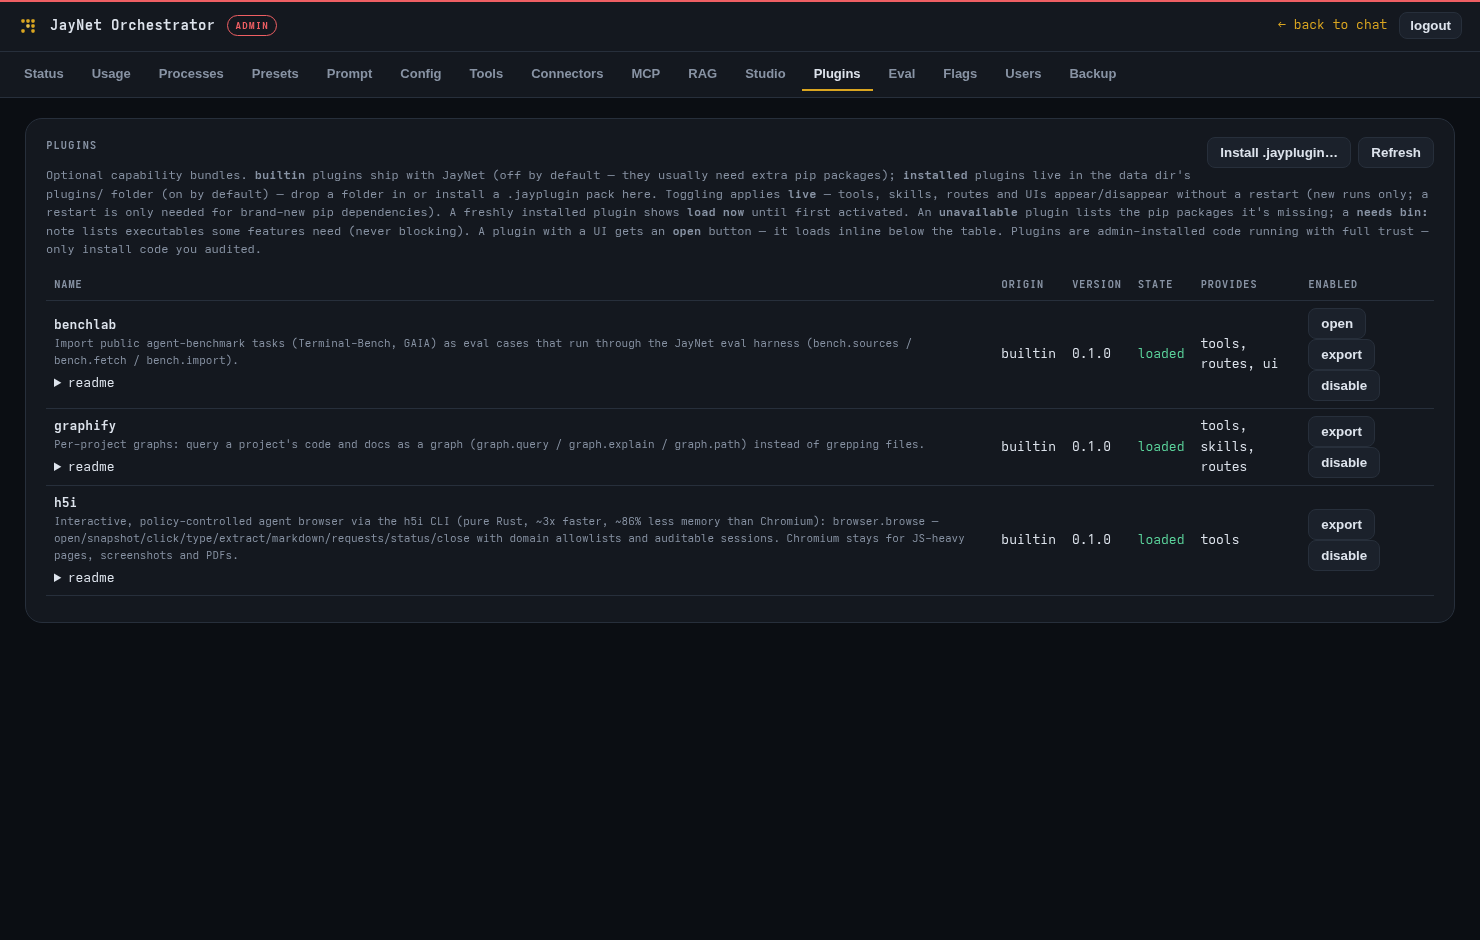
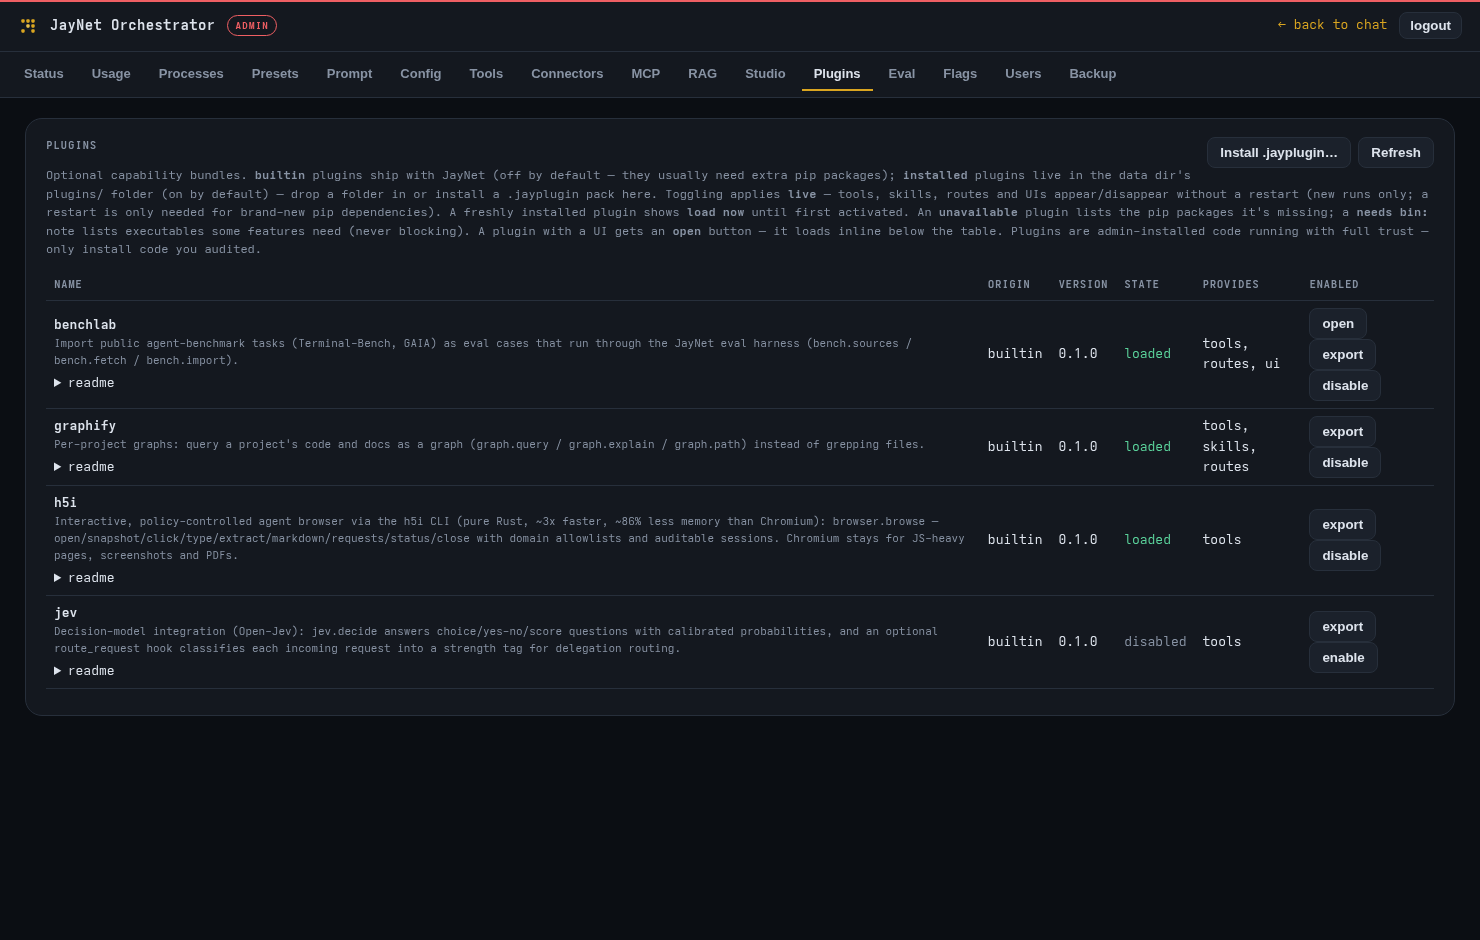
fix(audit-22): jev cloud-routing privacy gate + hygiene sweep
C1/D4: the route_request hook fires at run start, before the run's
taint/approval machinery exists — with backend=openrouter every request's
text would leave the box. The hook now refuses the cloud backend unless
plugins.jev.allow_cloud_route: true is set explicitly (privacy by
mechanism), and route defaults to false in code, matching the recorded
'stay keyword' decision; runtime.yaml seeds the section, config-help
covers both keys, README's config table corrected.

D1: screenshot sweep re-shot against live (28 PNGs; presets export/import,
worker prompts section, populated usage tables now visible).
D2: chat asset cache-bust v42 -> v43 (card expiry, feed pinning, task
clamp were stuck in browser caches).
D3: catalog regenerated (Plugin tools 11, jev.decide row).
D5: plugin enumerations to four builtins (playbook, README, learning
guide); api.md example version + guide footer to 1.12.x; hooks.py
docstring timeout corrected (2.0s).

diff --git a/web/static/index.html b/web/static/index.html
@@ -7,7 +7,7 @@
 <link rel="icon" href="/static/favicon.svg" type="image/svg+xml">
 <link rel="alternate icon" href="/static/favicon.ico" sizes="any">
 <link rel="apple-touch-icon" href="/static/apple-touch-icon.png">
-<link rel="stylesheet" href="/static/app.css?v=42">
+<link rel="stylesheet" href="/static/app.css?v=43">
 <link rel="stylesheet" href="/static/vendor/codemirror/cm.css">
 <script src="/static/vendor/codemirror/cm-bundle.js"></script>
 <link rel="stylesheet" href="/static/vendor/katex/katex.min.css">
@@ -218,6 +218,6 @@
 <script src="/static/dialog.js?v=1"></script>
 <script src="/static/wizard.js?v=1"></script>
 <script src="/static/files.js?v=11"></script>
-<script src="/static/app.js?v=42"></script>
+<script src="/static/app.js?v=43"></script>
 </body>
 </html>

diff --git a/tests/test_jev_plugin.py b/tests/test_jev_plugin.py
@@ -49,7 +49,7 @@ def _fake_urlopen(payload=None, boom=None):
     return _open
 
 
-CFG = {"plugins": {"jev": {"route_threshold": 0.6}},
+CFG = {"plugins": {"jev": {"route_threshold": 0.6, "route": True}},
        "models": {"strengths": {"coding": "code synthesis, debugging",
                                 "research": "web research, analysis",
                                 "allround": "catch-all"}}}
@@ -207,3 +207,39 @@ def test_unknown_backend_rejected(client):
     with pytest.raises(client.JevError, match="unknown jev backend"):
         client.decide({"plugins": {"jev": {"backend": "gargoyle"}}},
                       "s", {"q": {"type": "noul"}}, 1.0)
+
+
+# ---- privacy gate: cloud routing is opt-in (audit C1/D4) --------------------
+
+def test_route_default_is_off(client):
+    """The recorded 'stay keyword' decision: route ships False — a fresh
+    install that enables the plugin does NOT route."""
+    assert client.settings({})["route"] is False
+    assert client.settings({"plugins": {"jev": {}}})["route"] is False
+
+
+def test_route_hook_refuses_cloud_backend_without_optin(client, monkeypatch):
+    """backend=openrouter + route:true must NOT send request text off-box:
+    the hook fires at run start, before taint/approval exists. Without
+    allow_cloud_route the hook falls through to keywords — no HTTP call."""
+    def _boom(req, timeout=None):
+        raise AssertionError("network call attempted")
+
+    monkeypatch.setattr(client, "urlopen", _boom)
+    monkeypatch.setenv("OPENROUTER_API_KEY", "sk-or-test")
+    h = _hooks(client)
+    cfg = {"plugins": {"jev": {"backend": "openrouter", "route": True}},
+           "models": CFG["models"]}
+    assert h.route_request("debug this traceback", cfg) is None
+
+
+def test_route_hook_cloud_backend_with_optin(client, monkeypatch):
+    """allow_cloud_route: true is the explicit privacy opt-in — then the
+    hook routes through the hosted decision model."""
+    monkeypatch.setenv("OPENROUTER_API_KEY", "sk-or-test")
+    monkeypatch.setattr(client, "urlopen", _fake_urlopen(CHOICE_OK))
+    cfg = {"plugins": {"jev": {"backend": "openrouter", "route": True,
+                               "allow_cloud_route": True}},
+           "models": CFG["models"]}
+    assert _hooks(client).route_request("debug this traceback",
+                                        cfg) == "coding"

diff --git a/plugins/jev/jev_client.py b/plugins/jev/jev_client.py
@@ -23,9 +23,12 @@ Backends (plugins.jev.backend):
     "openrouter"    — TypeSafe's hosted Jev via OpenRouter's alpha Decisions
                       API (POST https://openrouter.ai/api/alpha/decisions,
                       model ~typesafe/jev-latest, Bearer OPENROUTER_API_KEY).
-                      PRIVACY: the state text leaves the box on every call —
-                      with route:true that is EVERY incoming request. Opt-in
-                      for experiments; keep the local backend for daily use.
+                      PRIVACY: the state text leaves the box on every call.
+                      The jev.decide TOOL asks like any explicit action, but
+                      the routing HOOK refuses this backend unless
+                      allow_cloud_route: true — with route:true every
+                      incoming request would leave the box before the run's
+                      taint/approval machinery exists.
 
 Loaded by file path via _load_client() in hooks.py / tools/jev.py — the
 sys.modules cache keeps one module instance (see handoffs/plugins.md).
@@ -62,10 +65,17 @@ def settings(config: dict) -> dict:
         # Routing hook: master switch, decision threshold, and its tighter
         # timeout (the hook is on the per-request path). 2s covers cold
         # server calls (~4s on first-ever, ~0.5s warm on a 2B GPU) without
-        # letting a wedged server stall run starts.
-        "route": bool(cfg.get("route", True)),
+        # letting a wedged server stall run starts. Ships OFF (the recorded
+        # 2026-09-22 decision: stay keyword by default).
+        "route": bool(cfg.get("route", False)),
         "route_threshold": float(cfg.get("route_threshold") or 0.6),
         "route_timeout_s": float(cfg.get("route_timeout_s") or 2.0),
+        # Privacy gate for the routing hook's cloud backend: with
+        # backend=openrouter, route:true would send EVERY incoming request's
+        # text off-box before the run's taint/approval machinery even
+        # exists. Mechanism, not docstring: the hook refuses the cloud
+        # backend unless this explicit opt-in is set.
+        "allow_cloud_route": bool(cfg.get("allow_cloud_route", False)),
     }
 
 

diff --git a/plugins/jev/hooks.py b/plugins/jev/hooks.py
@@ -6,14 +6,23 @@ and returns the tag when the calibrated probability clears the threshold.
 None — on a 'general' pick, a low confidence, or any server problem — falls
 through to the keyword router. Fired via asyncio.to_thread from the loop,
 so this blocking HTTP call is allowed; it is still bounded hard
-(route_timeout_s, default 0.8s) because it runs once per run start.
+(route_timeout_s, default 2.0s) because it runs once per run start.
+
+Privacy: the hook fires at run START, before the run's taint/approval
+machinery exists. With backend=openrouter the request text would leave the
+box on every run — so the hook refuses the cloud backend unless
+plugins.jev.allow_cloud_route: true is set explicitly (the jev.decide tool
+is an explicit per-call action and is not gated this way).
 """
 
 from __future__ import annotations
 
 import importlib.util
+import logging
 import sys
 from pathlib import Path
+
+log = logging.getLogger(__name__)
 
 
 def _load_client():
@@ -38,6 +47,16 @@ def route_request(user_message, config):
     client = _load_client()
     s = client.settings(config if isinstance(config, dict) else {})
     if not s["route"]:
+        return None
+    if s["backend"] == "openrouter" and not s["allow_cloud_route"]:
+        # Cloud routing sends EVERY request's text off-box at run start,
+        # before taint/approval can exist — explicit opt-in only, otherwise
+        # fall through to the keyword router (logged once per process).
+        if not getattr(route_request, "_cloud_warned", False):
+            route_request._cloud_warned = True
+            log.warning("jev route_request: openrouter backend refused "
+                        "(plugins.jev.allow_cloud_route is not true) — "
+                        "keyword routing continues")
         return None
     msg = (user_message or "").strip()
     if not msg:

diff --git a/plugins/jev/README.md b/plugins/jev/README.md
@@ -14,7 +14,7 @@ This plugin wires it into JayNet two ways:
   classified into a strength tag from your `models.strengths` registry.
   Clearing the threshold (`route_threshold`, default 0.6) routes the run to
   the matching specialist; anything else falls through to the keyword
-  router. Disable with `plugins.jev.route: false`.
+  router. Off by default (`plugins.jev.route: true` to enable).
   **Measured 2026-09-22: mixed.** Open-Jev 2B (local) is not good enough —
   trained on synthetic business decisions, it classified coding requests
   confidently as "general"; keywords won. Hosted TypeSafe Jev
@@ -65,14 +65,17 @@ curl -s http://127.0.0.1:8791/v1/systemone -H 'Content-Type: application/json' -
 | `model` | `open-jev` / `~typesafe/jev-latest` | model id per backend |
 | `api_key_env` | `OPENROUTER_API_KEY` | env var with the OpenRouter key |
 | `timeout_s` | `5` | tool-call timeout |
-| `route` | `true` | route_request hook on/off |
+| `route` | `false` | route_request hook on/off (ships off — the measured verdict was "stay keyword") |
 | `route_threshold` | `0.6` | min top probability to route on |
 | `route_timeout_s` | `2.0` | hook timeout (runs per request; ~0.5s warm on a 2B GPU) |
+| `allow_cloud_route` | `false` | privacy opt-in: without it the hook REFUSES the openrouter backend |
 
 **Privacy:** the local backend keeps everything on the box. With
-`backend: openrouter` the judged text leaves the machine — and with
-`route: true` that means EVERY incoming request goes to OpenRouter. Treat
-the cloud backend as an experiment switch, not a daily driver.
+`backend: openrouter` the judged text leaves the machine — and since the
+routing hook fires at run START (before the run's taint/approval machinery
+exists), the hook refuses the cloud backend entirely unless
+`allow_cloud_route: true` is set. The `jev.decide` tool is an explicit
+per-call action and is not gated this way.
 
 ## OpenRouter backend (hosted Jev)
 

diff --git a/docs/playbook.md b/docs/playbook.md
@@ -155,12 +155,14 @@ for derived-vs-curated graphs. Hooks are the interesting part: plugins can injec
 every project-bound run (`augment_project_context`), declare which tools
 such a run must keep reachable (`project_tools`), and react to file changes
 and project deletion — and a plugin crash inside a hook is isolated, never
-takes the loop down. Three plugins ship: `graphify` (project graphs, with
+takes the loop down. Four plugins ship: `graphify` (project graphs, with
 hooks, a skill and its own admin pane), `benchlab` (imports public
 agent benchmarks — Terminal-Bench, GAIA — as eval cases; tools only, no
-hooks, disabled by default like every builtin) and `h5i` (a policy-controlled
+hooks, disabled by default like every builtin), `h5i` (a policy-controlled
 browser lane — `browser.browse` — as an alternative to the Chrome/Playwright
-path).
+path) and `jev` (decision-model request routing — measured verdict: stay
+keyword; ships disabled with the routing hook off and a hard privacy gate
+on its cloud backend).
 
 ### 2.5 Studio & the custom layer
 

diff --git a/CHANGELOG.md b/CHANGELOG.md
@@ -7,6 +7,17 @@ Every tagged version gets a release file in `docs/releases/vX.Y.Z.md`
 
 ## Unreleased
 
+- **Audit #22 fixes (1 C, 5 D).** jev privacy: the `route_request` hook
+  fires at run start, before taint/approval exists — with the openrouter
+  backend every request's text would leave the box. The hook now REFUSES
+  the cloud backend unless `plugins.jev.allow_cloud_route: true` is set
+  explicitly, and `route` defaults to `false` in code (matching the
+  recorded "stay keyword" decision; runtime.yaml seeds the section).
+  Dispatch-gate descriptions reworded after the first live dispatch run
+  (below). Hygiene: chat asset cache-bust bumped (v42 → v43), catalog
+  regenerated (jev.decide row), plugin enumerations updated to four
+  builtins (playbook/README/learning guide), stale version strings fixed.
+
 - **Brain tool gating, full version: `tools.code.brain_mode: dispatch`.**
   Superset of `verify`: with a coding specialist present, the brain's own
   `fs.write`/`fs.edit` calls into source files (~50 extensions + the

diff --git a/docs/catalog.md b/docs/catalog.md
@@ -356,7 +356,7 @@ into that namespace's tools, Tab completes.
 | `web.search` | Search the web for current information. Returns a list of {title, url, snippet} results. Use for facts that may have changed, rece… |  |
 
 
-## Plugin tools (10)
+## Plugin tools (11)
 
 Shipped by bundled plugins — live only while the plugin is enabled (Admin → Plugins).
 
@@ -384,6 +384,12 @@ Shipped by bundled plugins — live only while the plugin is enabled (Admin → 
 | Tool | Description | Flags |
 |---|---|---|
 | `browser.browse` | Interactive browsing via the h5i browser (pure Rust, policy-controlled, auditable): open a page, snapshot its outline with @refs,… |  |
+
+### jev (plugin: jev)
+
+| Tool | Description | Flags |
+|---|---|---|
+| `jev.decide` | Ask the local Open-Jev decision model: give it a `state` (the text to judge) and typed `questions` — it answers with calibrated PR… | private |
 
 ## Skills
 

diff --git a/README.md b/README.md
@@ -382,7 +382,7 @@ idea is visible in the running product.
 | [catalog.md](docs/catalog.md) | every tool, skill, chain and slash command, one line each (generated) |
 | [playbook.md](docs/playbook.md) | the landscape in prose: what every piece does, how they harmonize and compete, verdict |
 | [studio.md](docs/studio.md) | building skills/chains/connectors/tools in the browser, `.jaypack` sharing |
-| [plugins.md](docs/plugins.md) | optional capability bundles: using, installing and writing plugins (graphify, benchlab and h5i ship as ones) |
+| [plugins.md](docs/plugins.md) | optional capability bundles: using, installing and writing plugins (graphify, benchlab, h5i and jev ship as ones) |
 | [architecture.md](docs/architecture.md) | subsystems and code layout |
 | [api.md](docs/api.md) | HTTP API and bearer tokens |
 | [security.md](docs/security.md) | threat model and guardrails |

diff --git a/LEARNING_GUIDE.md b/LEARNING_GUIDE.md
@@ -367,6 +367,8 @@ reference implementation and sets the bar: it ships staleness semantics
 query it. Benchlab is another — benchmark harnesses (Terminal-Bench,
 GAIA) packaged the same way — and its existence matters more than its
 content: a second plugin proves the interface right in a way one never can.
+(Four builtins ship now — graphify, benchlab, h5i, jev; §3.18 covers what
+jev's measured failure taught about routing.)
 The design lesson mirrors the MCP note below: adopt structure when a
 second real consumer earns it.
 
@@ -581,5 +583,5 @@ When you want to go deeper:
 
 ---
 
-*Theory companion for JayNet v1.11.x. Operations live in [docs/](docs/);
+*Theory companion for JayNet v1.12.x. Operations live in [docs/](docs/);
 the product story in [README.md](README.md).*

diff --git a/docs/api.md b/docs/api.md
@@ -32,7 +32,7 @@ Errors: `401` missing/invalid token · `404` unknown run · `422` invalid body.
 ### `GET /api/health` — no auth
 
 ```json
-{"ok": true, "version": "1.11.0", "tools": 115}
+{"ok": true, "version": "1.12.0", "tools": 115}
 ```
 
 ### `POST /api/chat` — start an agent run (web-UI style, client-managed history)
